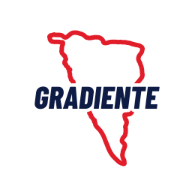
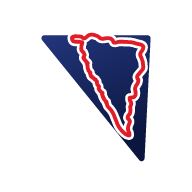
Íconos nuevos: G roja sobre azul en la pestaña y la marca (triángulo y costa) para instalar

Changed region(s): [[0.1562, 0.1562, 0.8438, 0.875]]

diff --git a/sw.js b/sw.js
@@ -1,6 +1,6 @@
 /* Service worker: red primero, cache como respaldo para usar el plan sin conexión. */
-var CACHE = "gradiente-33";
-var SHELL = ["./", "index.html", "config.js", "assets/app.css", "assets/app.js", "assets/auth.js", "assets/intro.js", "data/planes.json", "data/nube.json", "data/faq.json", "data/catedras.json", "data/fechas.json", "data/instagram.json", "data/formulas.json", "data/elementos.json", "data/links.json", "data/kiosco.json", "manifest.webmanifest", "assets/icon.svg", "assets/logo-gradiente-azul.png", "assets/logo-gradiente-blanco.png"];
+var CACHE = "gradiente-34";
+var SHELL = ["./", "index.html", "config.js", "assets/app.css", "assets/app.js", "assets/auth.js", "assets/intro.js", "data/planes.json", "data/nube.json", "data/faq.json", "data/catedras.json", "data/fechas.json", "data/instagram.json", "data/formulas.json", "data/elementos.json", "data/links.json", "data/kiosco.json", "manifest.webmanifest", "assets/icon.svg", "assets/favicon.svg", "assets/logo-gradiente-azul.png", "assets/logo-gradiente-blanco.png"];
 self.addEventListener("install", function (e) {
   e.waitUntil(caches.open(CACHE).then(function (c) { return c.addAll(SHELL); }).then(function () { return self.skipWaiting(); }));
 });

diff --git a/index.html b/index.html
@@ -11,7 +11,9 @@
   <meta property="og:image" content="assets/logo-gradiente-azul.png" />
   <meta name="theme-color" content="#0c0e26" />
   <link rel="manifest" href="manifest.webmanifest" />
-  <link rel="icon" type="image/svg+xml" href="assets/icon.svg" />
+  <!-- pestaña: la G roja sobre azul; instalada: la marca (triángulo y costa) sobre blanco -->
+  <link rel="icon" type="image/svg+xml" href="assets/favicon.svg" />
+  <link rel="icon" type="image/png" sizes="32x32" href="assets/favicon-32.png" />
   <link rel="apple-touch-icon" href="assets/apple-touch-icon.png" />
   <link rel="preconnect" href="https://fonts.googleapis.com" />
   <link rel="preconnect" href="https://fonts.gstatic.com" crossorigin />
